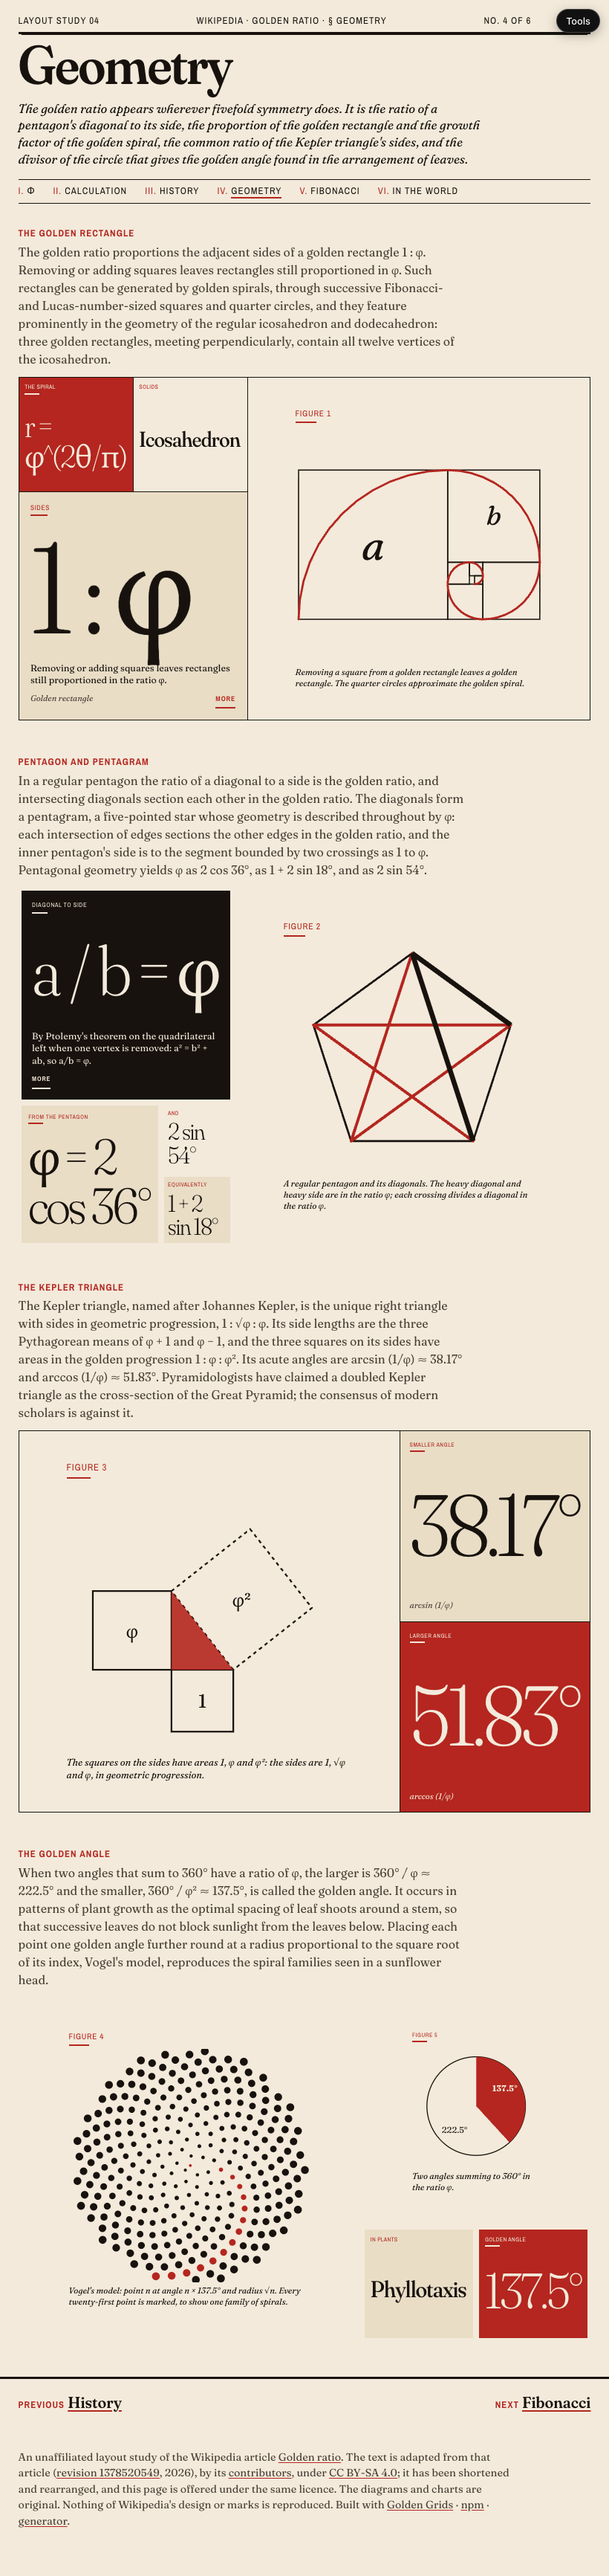
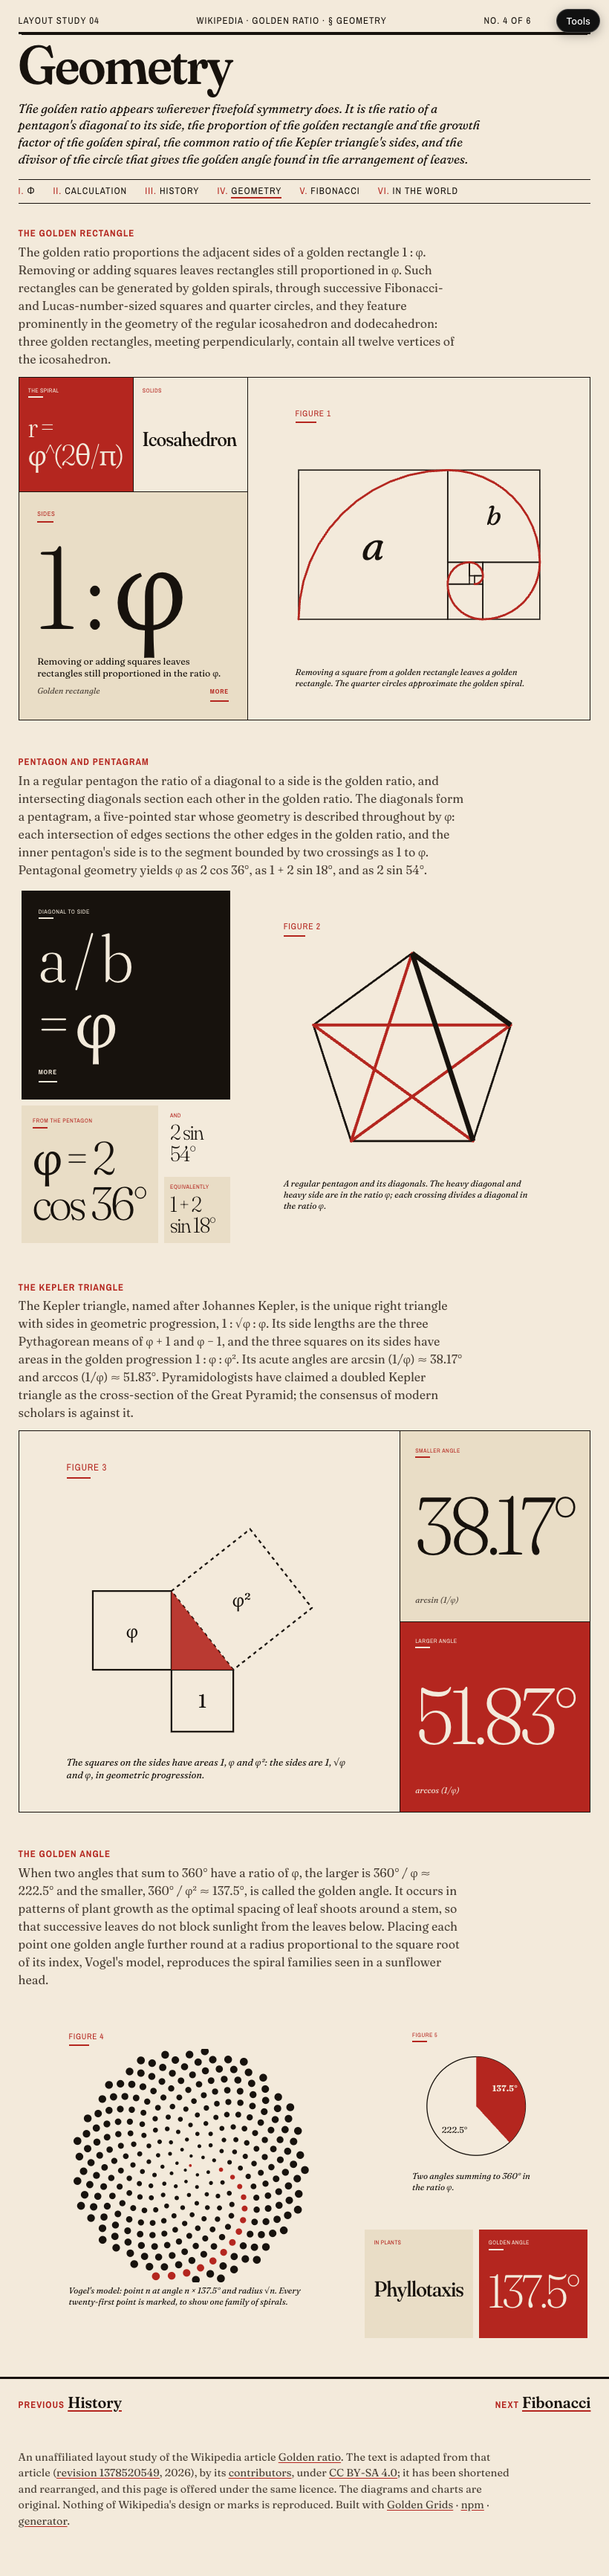
feat: more interior padding in every cell, 8% of the side

diff --git a/src/styles.css b/src/styles.css
@@ -128,7 +128,10 @@ a { color: inherit; text-decoration: underline; text-decoration-color: var(--red
 .box {
   position: absolute; inset: 0;
   display: flex; flex-direction: column;
-  padding: min(28px, 5%); /* a percentage of the square's own width, so a 17px square keeps room for its digit */
+  /* Interior padding as a share of the square's own width: 8% of the side,
+     between 4px and 36px, so a 17px square keeps room for its digit and an
+     840px square gets a margin worth the name. */
+  padding: clamp(4px, 8%, 36px);
   overflow: hidden;
   container-type: size;
 }
@@ -211,7 +214,7 @@ a.box:hover .fit, a.box:focus-visible .fit { text-decoration: underline; text-de
 .cell__related a { font-family: var(--display); font-size: 1.1rem; font-weight: 600; text-decoration-color: var(--red); }
 
 /* Expanded cell: the band becomes the full passage, set as a measure. */
-.cell { padding: clamp(12px, 2vw, 28px); background: var(--paper-deep); }
+.cell { padding: clamp(16px, 3vw, 40px); background: var(--paper-deep); }
 .cell__body { max-width: var(--measure); font-size: clamp(1rem, 1.4vw, 1.25rem); line-height: 1.45; }
 .cell__body p { margin: 0 0 0.8em; }
 .cell__body blockquote { margin: 0 0 0.8em; padding-left: 1em; border-left: 3px solid var(--red); font-style: italic; }
